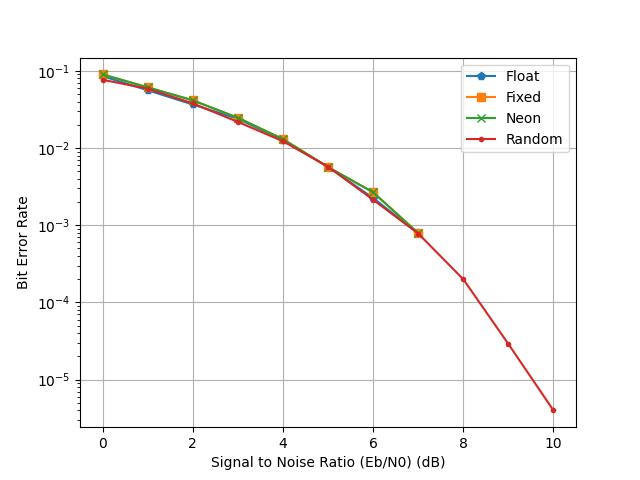
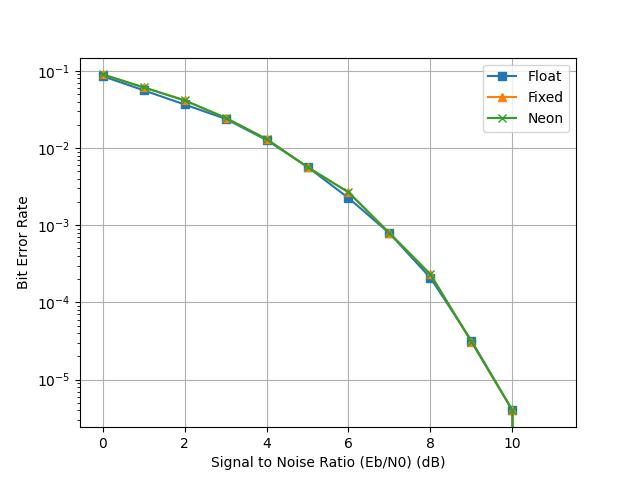
Graphs for soft!!

diff --git a/Modulateur/graphs.py b/Modulateur/graphs.py
@@ -10,16 +10,15 @@ import pandas
 ## with print format being first the dot style (x, +, . ...) and then the line style (usually - for continuous or -- for dashed)
 files = [ 
          ("sim_soft.csv", "Float", "s-"),
-         ("sim_soft8.csv", "Fixed", "t-"),
-         ("sim_soft_neon.csv", "Neon", "x-"),
-         ("sim_soft_random.csv", "Random", ".-")
+         ("sim_soft8.csv", "Fixed", "^-"),
+         ("sim_soft_neon.csv", "Neon", "x-")
 ]
 
-output = "soft_comp"
+output = "soft_comp_time_all"
 xlabel = "Signal to Noise Ratio (Eb/N0) (dB)"  
-ylabel = "Bit Error Rate"
+ylabel = "Average time for one frame (microseconds)"
 x = "Eb/No"
-y = "BER"
+y = "Average time for one frame"
 
 for elem in files:
     sim = pandas.read_csv(elem[0])

diff --git a/Modulateur/TP4_notes.md b/Modulateur/TP4_notes.md
@@ -107,10 +107,11 @@ When comparing between fixed-point and neon, we find that vectorial instructions
 
 We also compared the execution times ; we could see that the time it took to simulate one frame was way less for the SIMD decoder compared to the scalar ones.
 
-**Ajouter 3 graphes**
+**Ajouter 4 graphes**
 - le throughput
 - la vitesse globale de traitement d'une frame
+- **La vitesse spécifiquement pour le décodage - besoin d'ajouter les stats
 - les performances de décodage
 
 **Soft decoder**
-**GRACE TODO
+**GRACE TODO**
